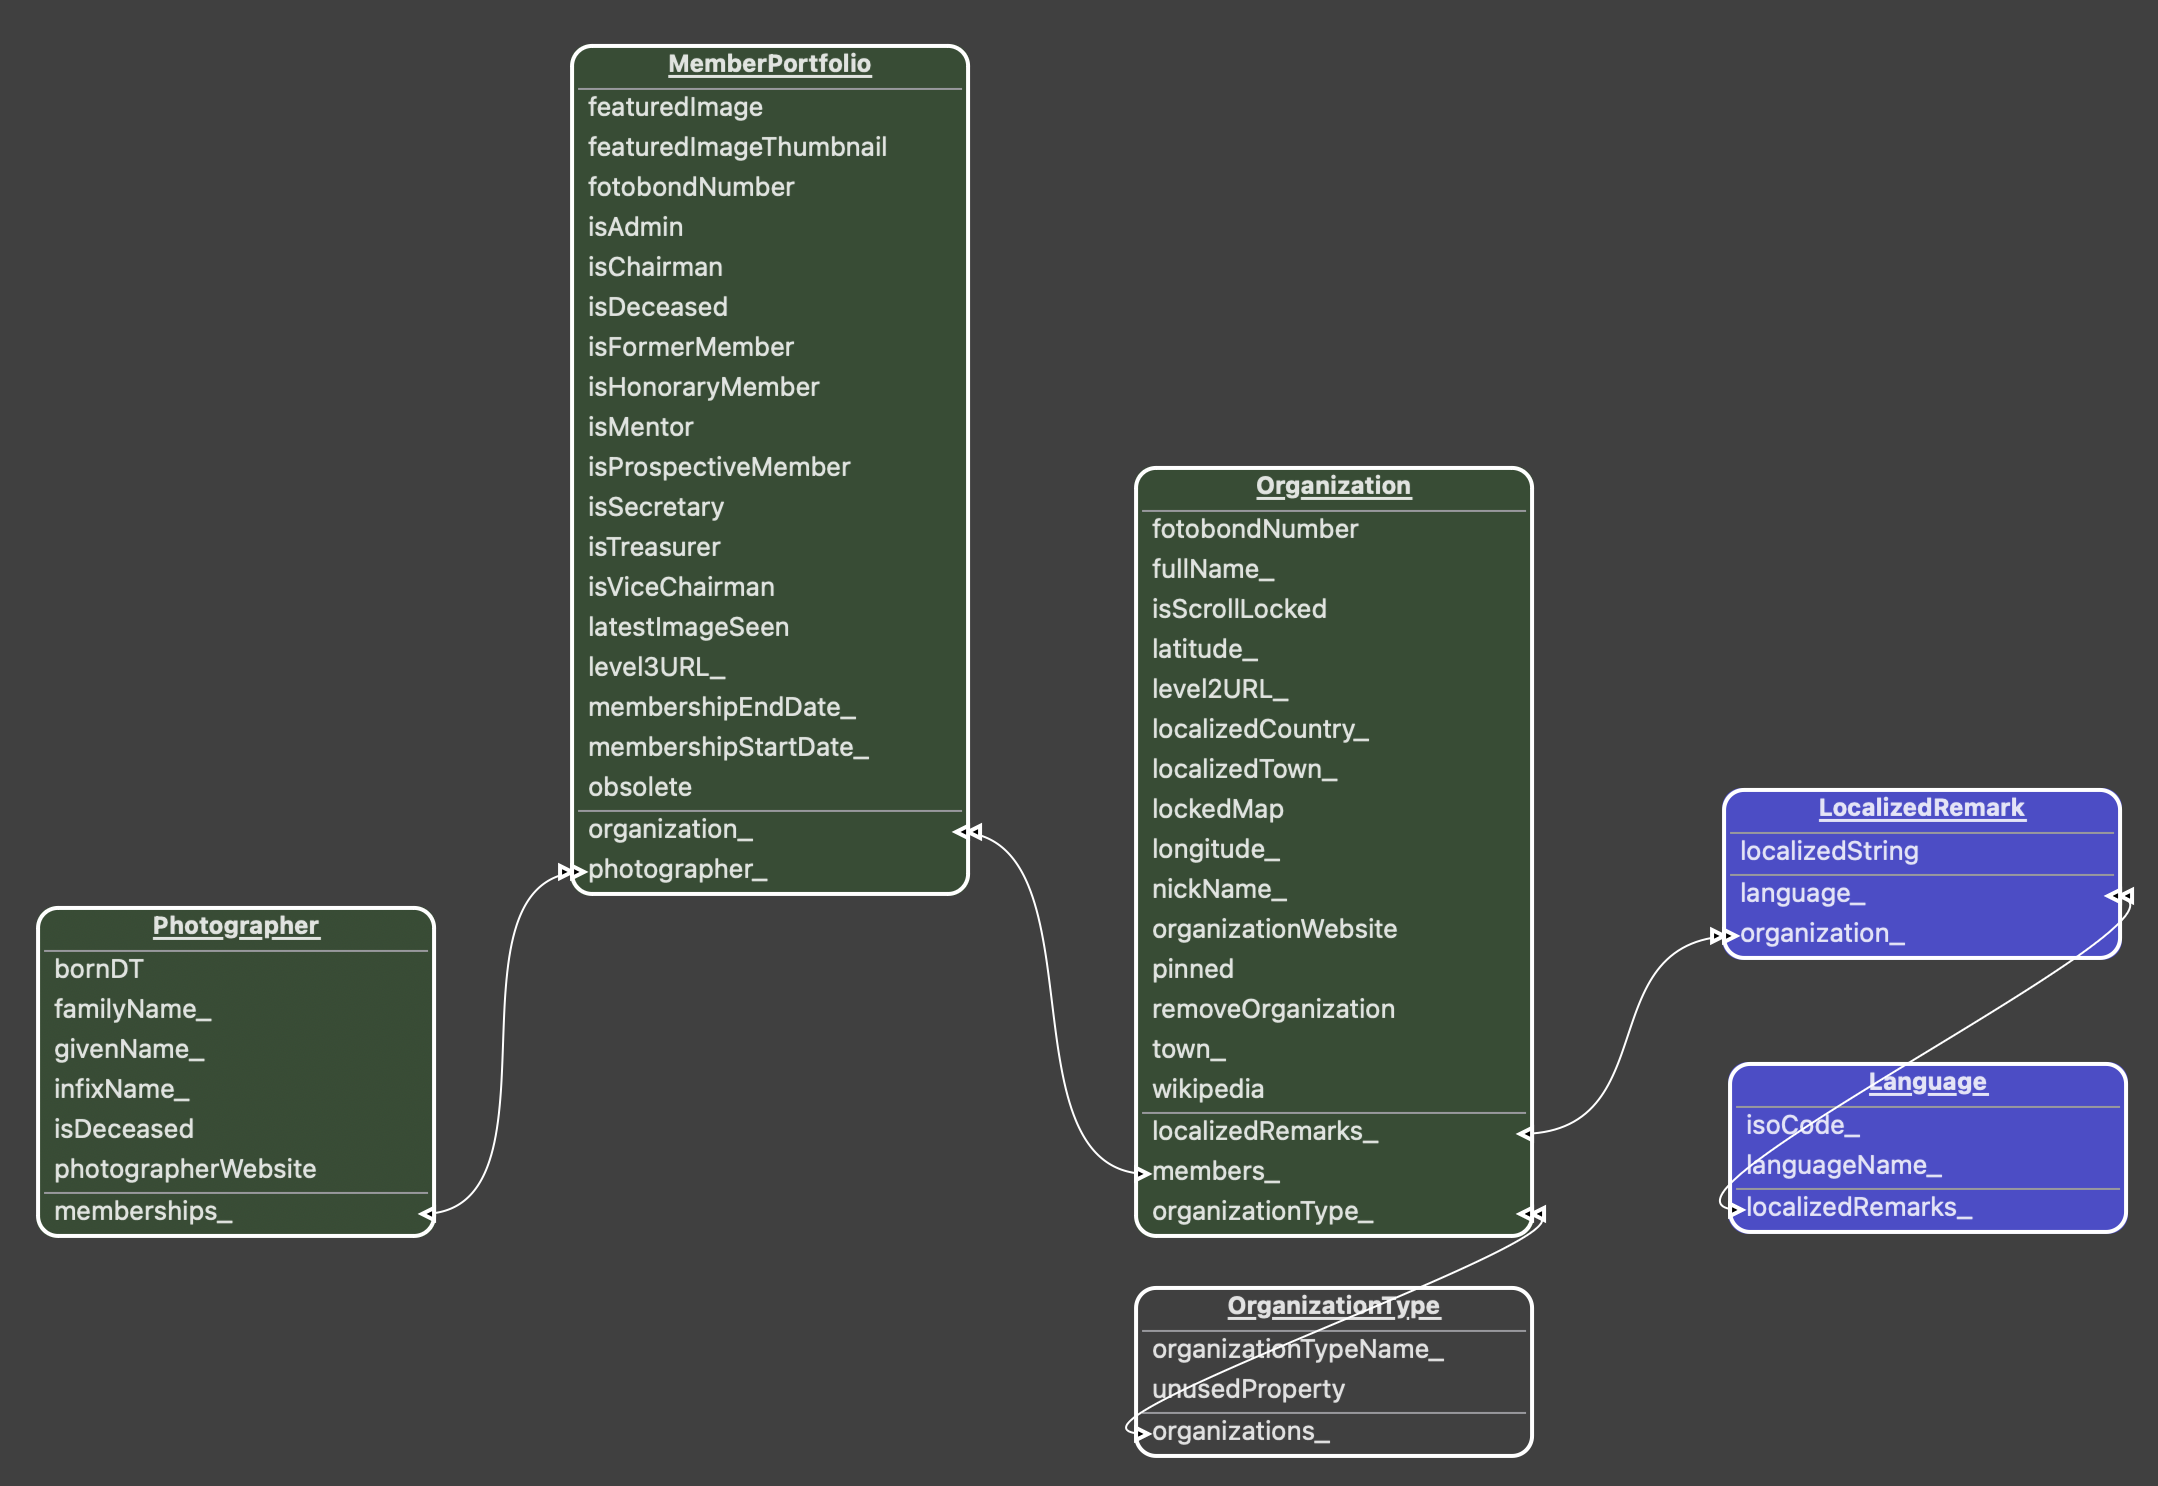
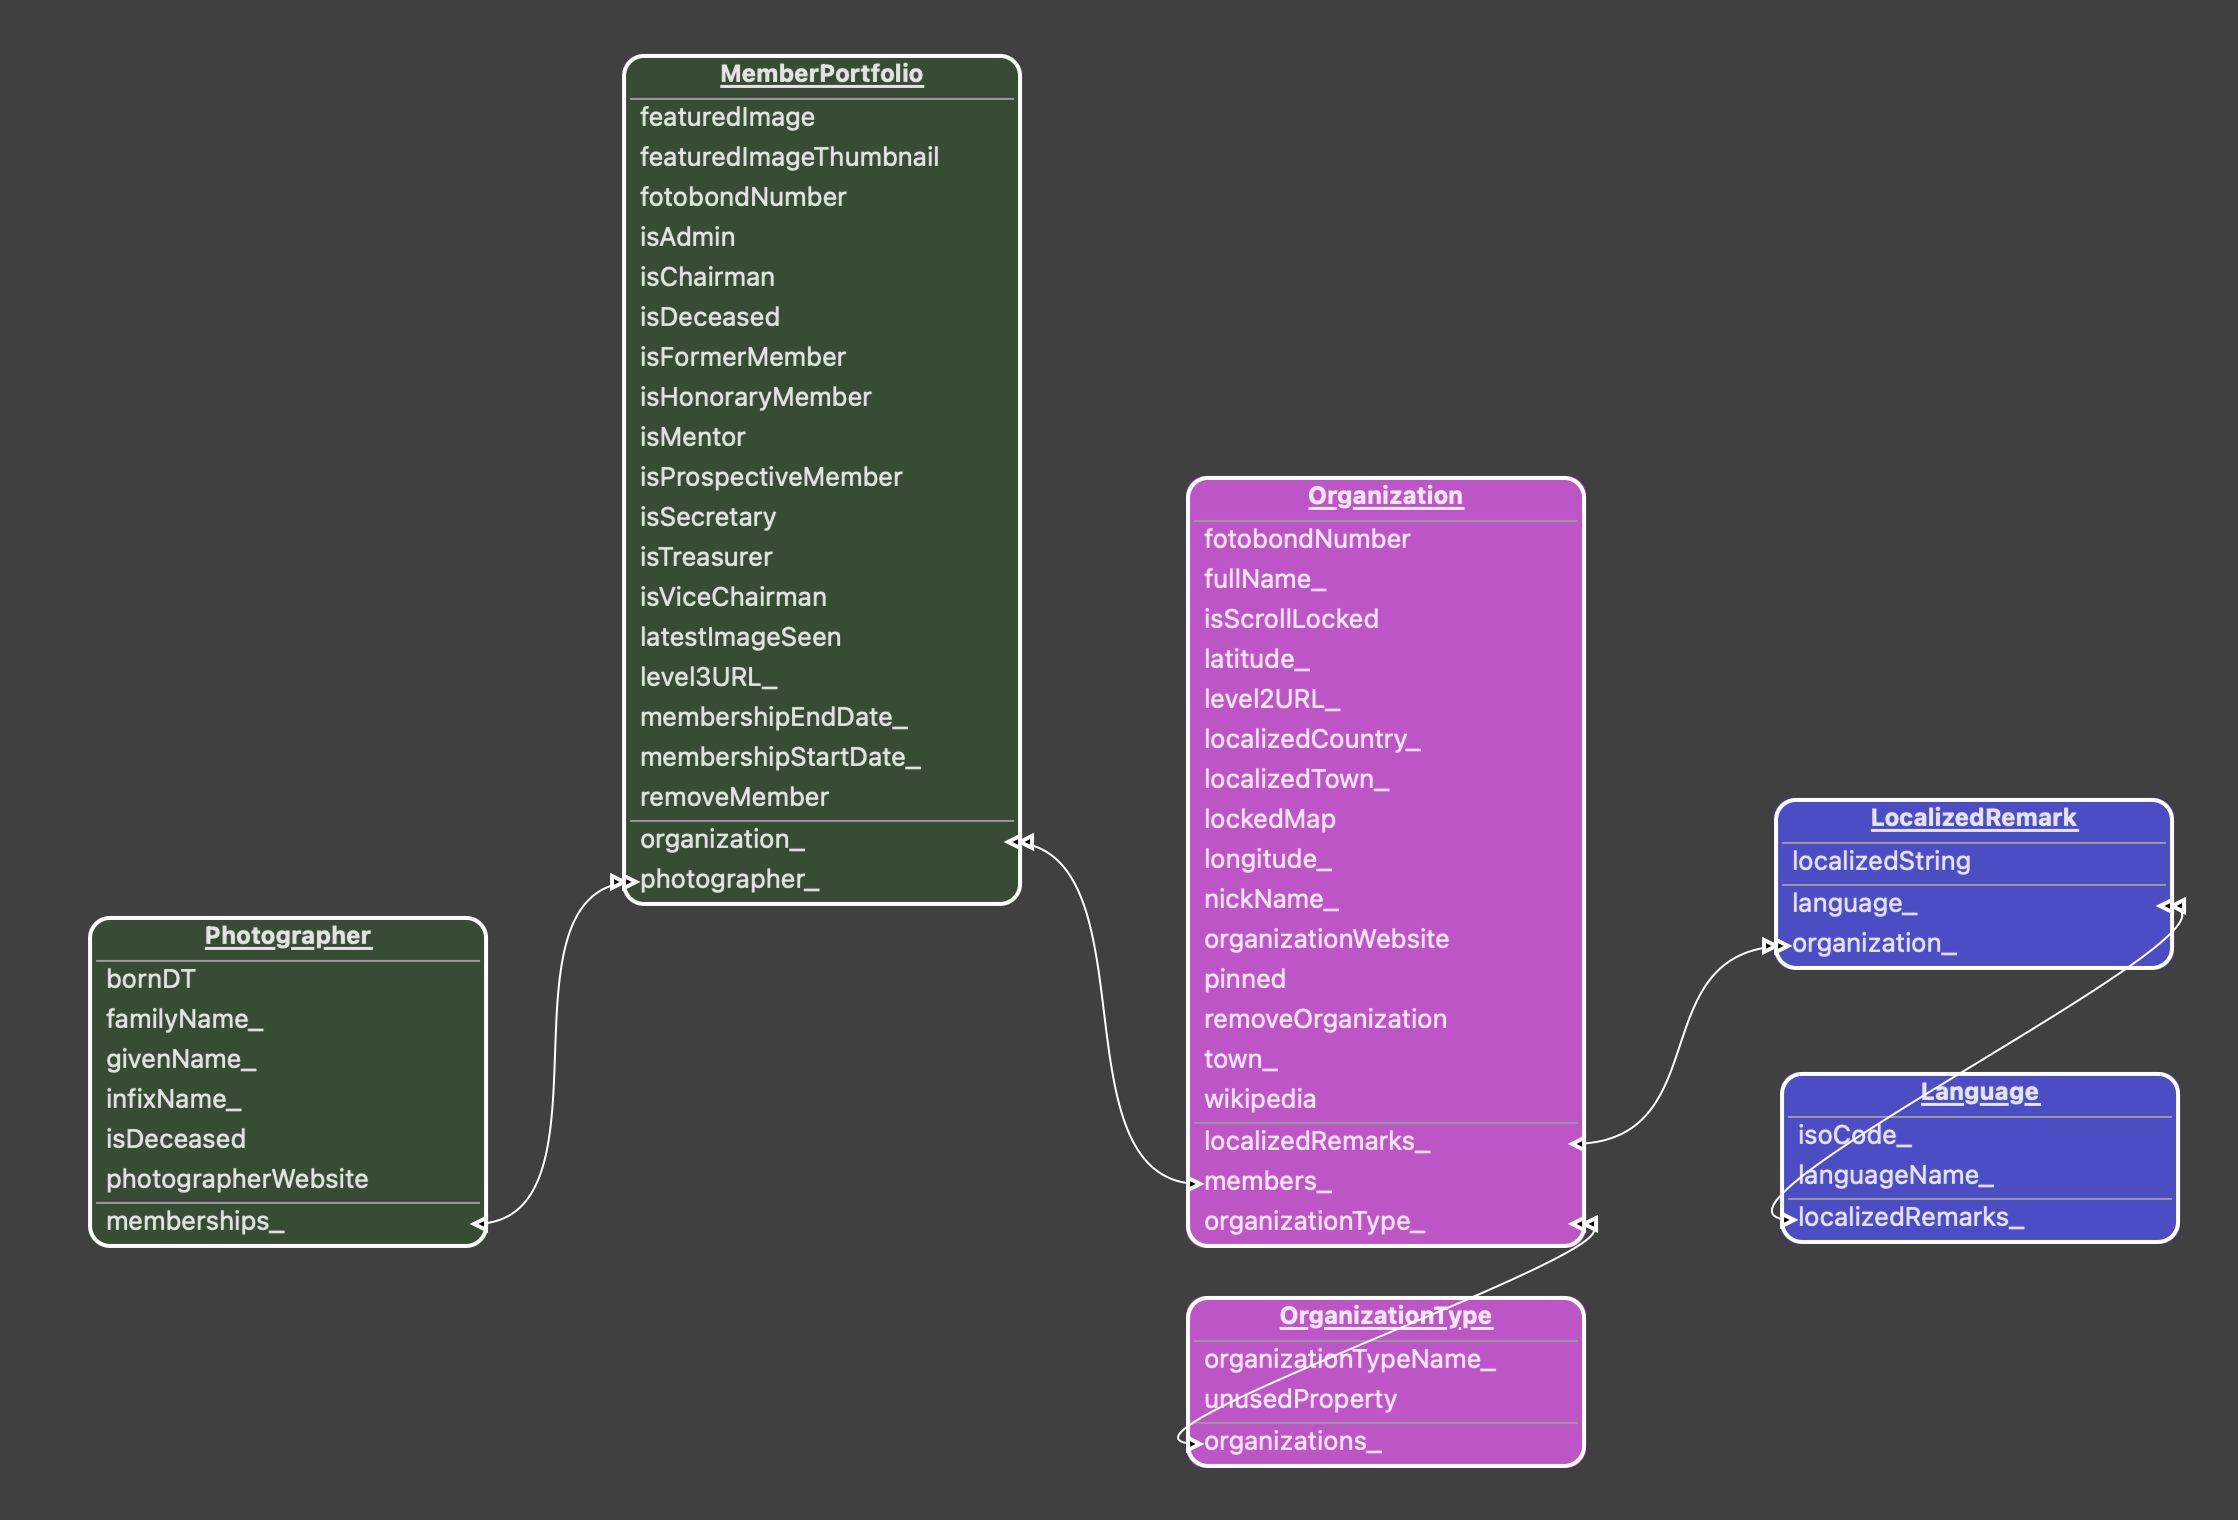
Fix: #441

diff --git a/Photo Club Hub/ViewModel/MemberPortfolio/MemberPortfolio+updating.swift b/Photo Club Hub/ViewModel/MemberPortfolio/MemberPortfolio+updating.swift
@@ -82,7 +82,7 @@ extension MemberPortfolio { // findCreateUpdate() records in Member table
         let changed5 = updateIfChangedOptional(update: &self.featuredImage, with: optionalFields.featuredImage)
         let changed6 = updateIfChangedOptional(update: &self.featuredImageThumbnail,
                                                with: optionalFields.featuredImageThumbnail)
-        let changed7 = updateIfChanged(update: &self.obsolete, with: obsolete)
+        let changed7 = updateIfChanged(update: &self.removeMember, with: removeMember)
         needsSaving = changed1 || changed2 || changed3 ||
                       changed4 || changed5 || changed6 || changed7 // forces execution of updateIfChanged()
 

diff --git a/Photo Club Hub/Documentation/ReleaseNotes.md b/Photo Club Hub/Documentation/ReleaseNotes.md
@@ -1,9 +1,10 @@
 ### 2.7.0 (GitHub commit ???????) ??-08-24
 
 Maintenance
-* Tested on Xcode 16.0 beta 5 (16A5221g), iOS 18.0 beta 5 (22A5326g), Vision Pro 2.0 beta 5 (22A5326g), MacOS 14.6.1
+* Tested on Xcode 16.0 beta 5 (16A5221g), iOS 18.0 beta 5 (22A5326g), Vision Pro 2.0 beta 5 (22A5326g), MacOS 14.6.1.
 * Fixed spelling in name of member HN in fgAnders.
-* updated picture of data model in README.md
+* Updated dataModel.png as used in README.md
+* Renamed MemberPortfolio.obsolete to MemberPortfolio.removeMember
 
 This build #4630 was made with Xcode 15.4 and is intended for App Store distribution.
 
